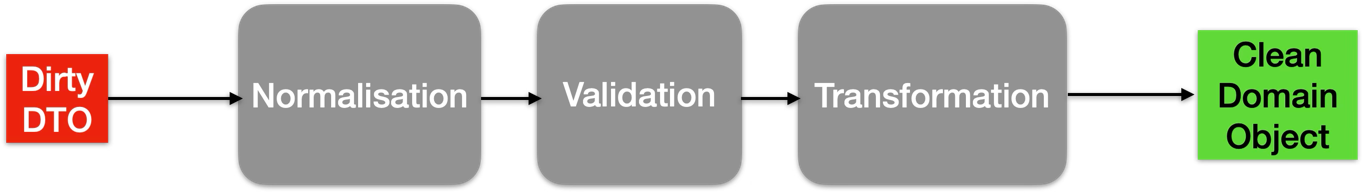
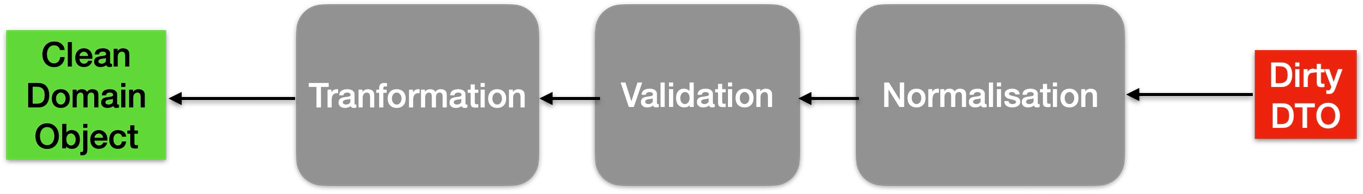
todo and reverse direction

diff --git a/todo.md b/todo.md
@@ -1,0 +1,6 @@
+uploader les slides
+poster les slides
+slide CI
+slide Simulateur Android
+slide commencer par les services tiers
+
